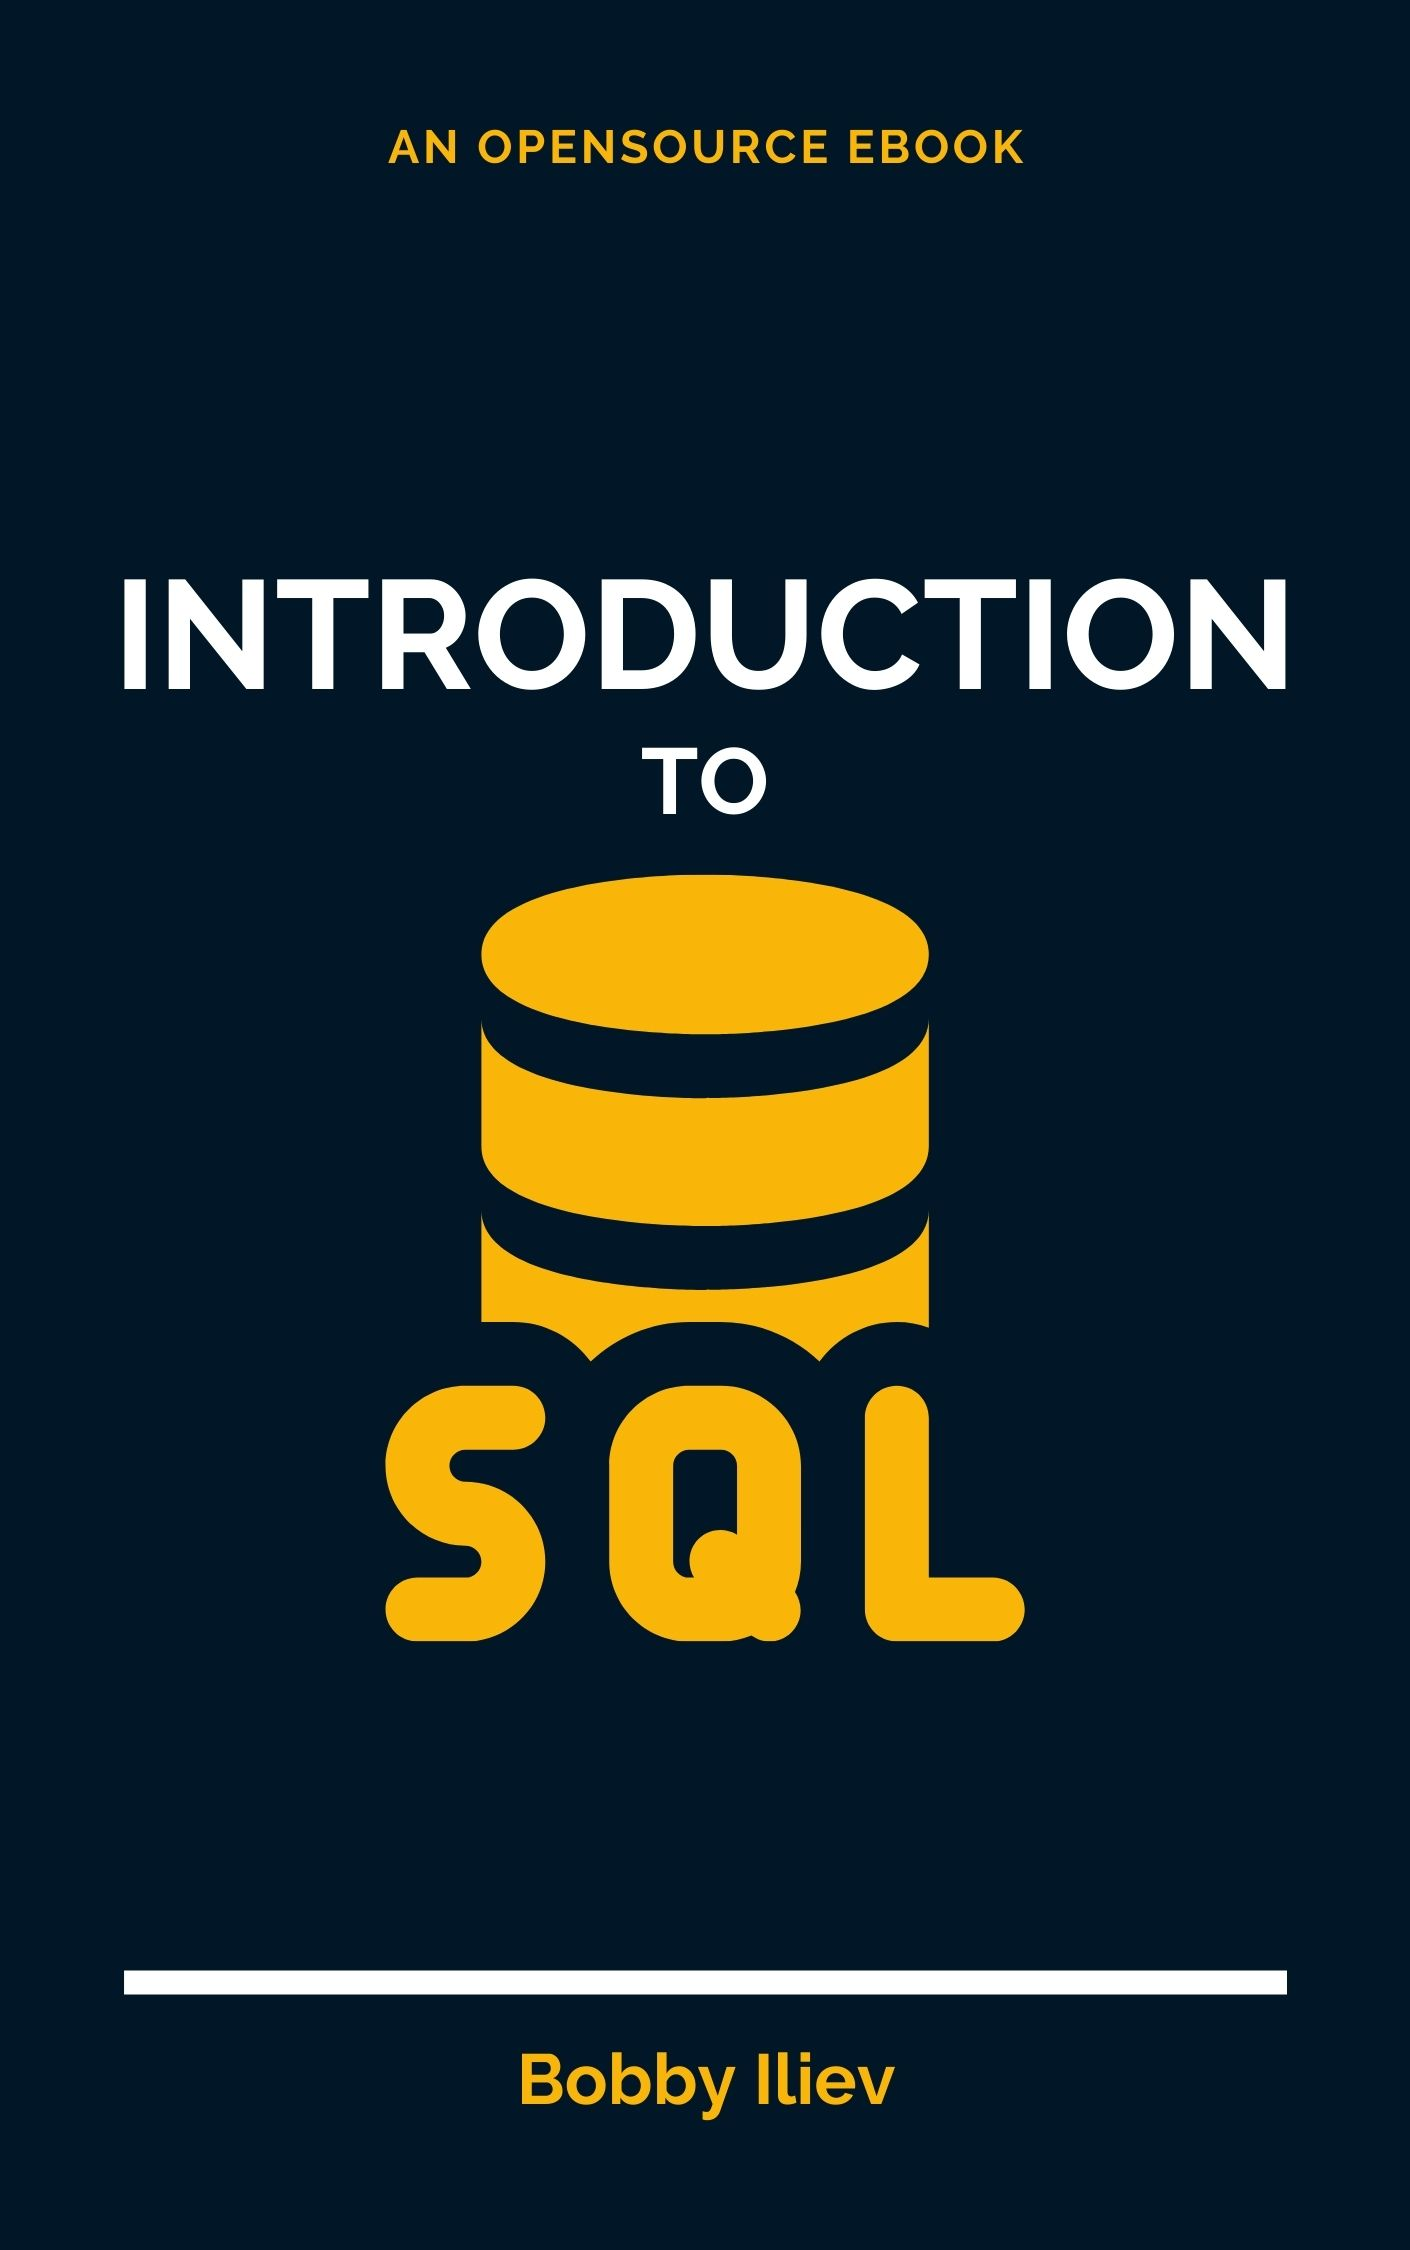
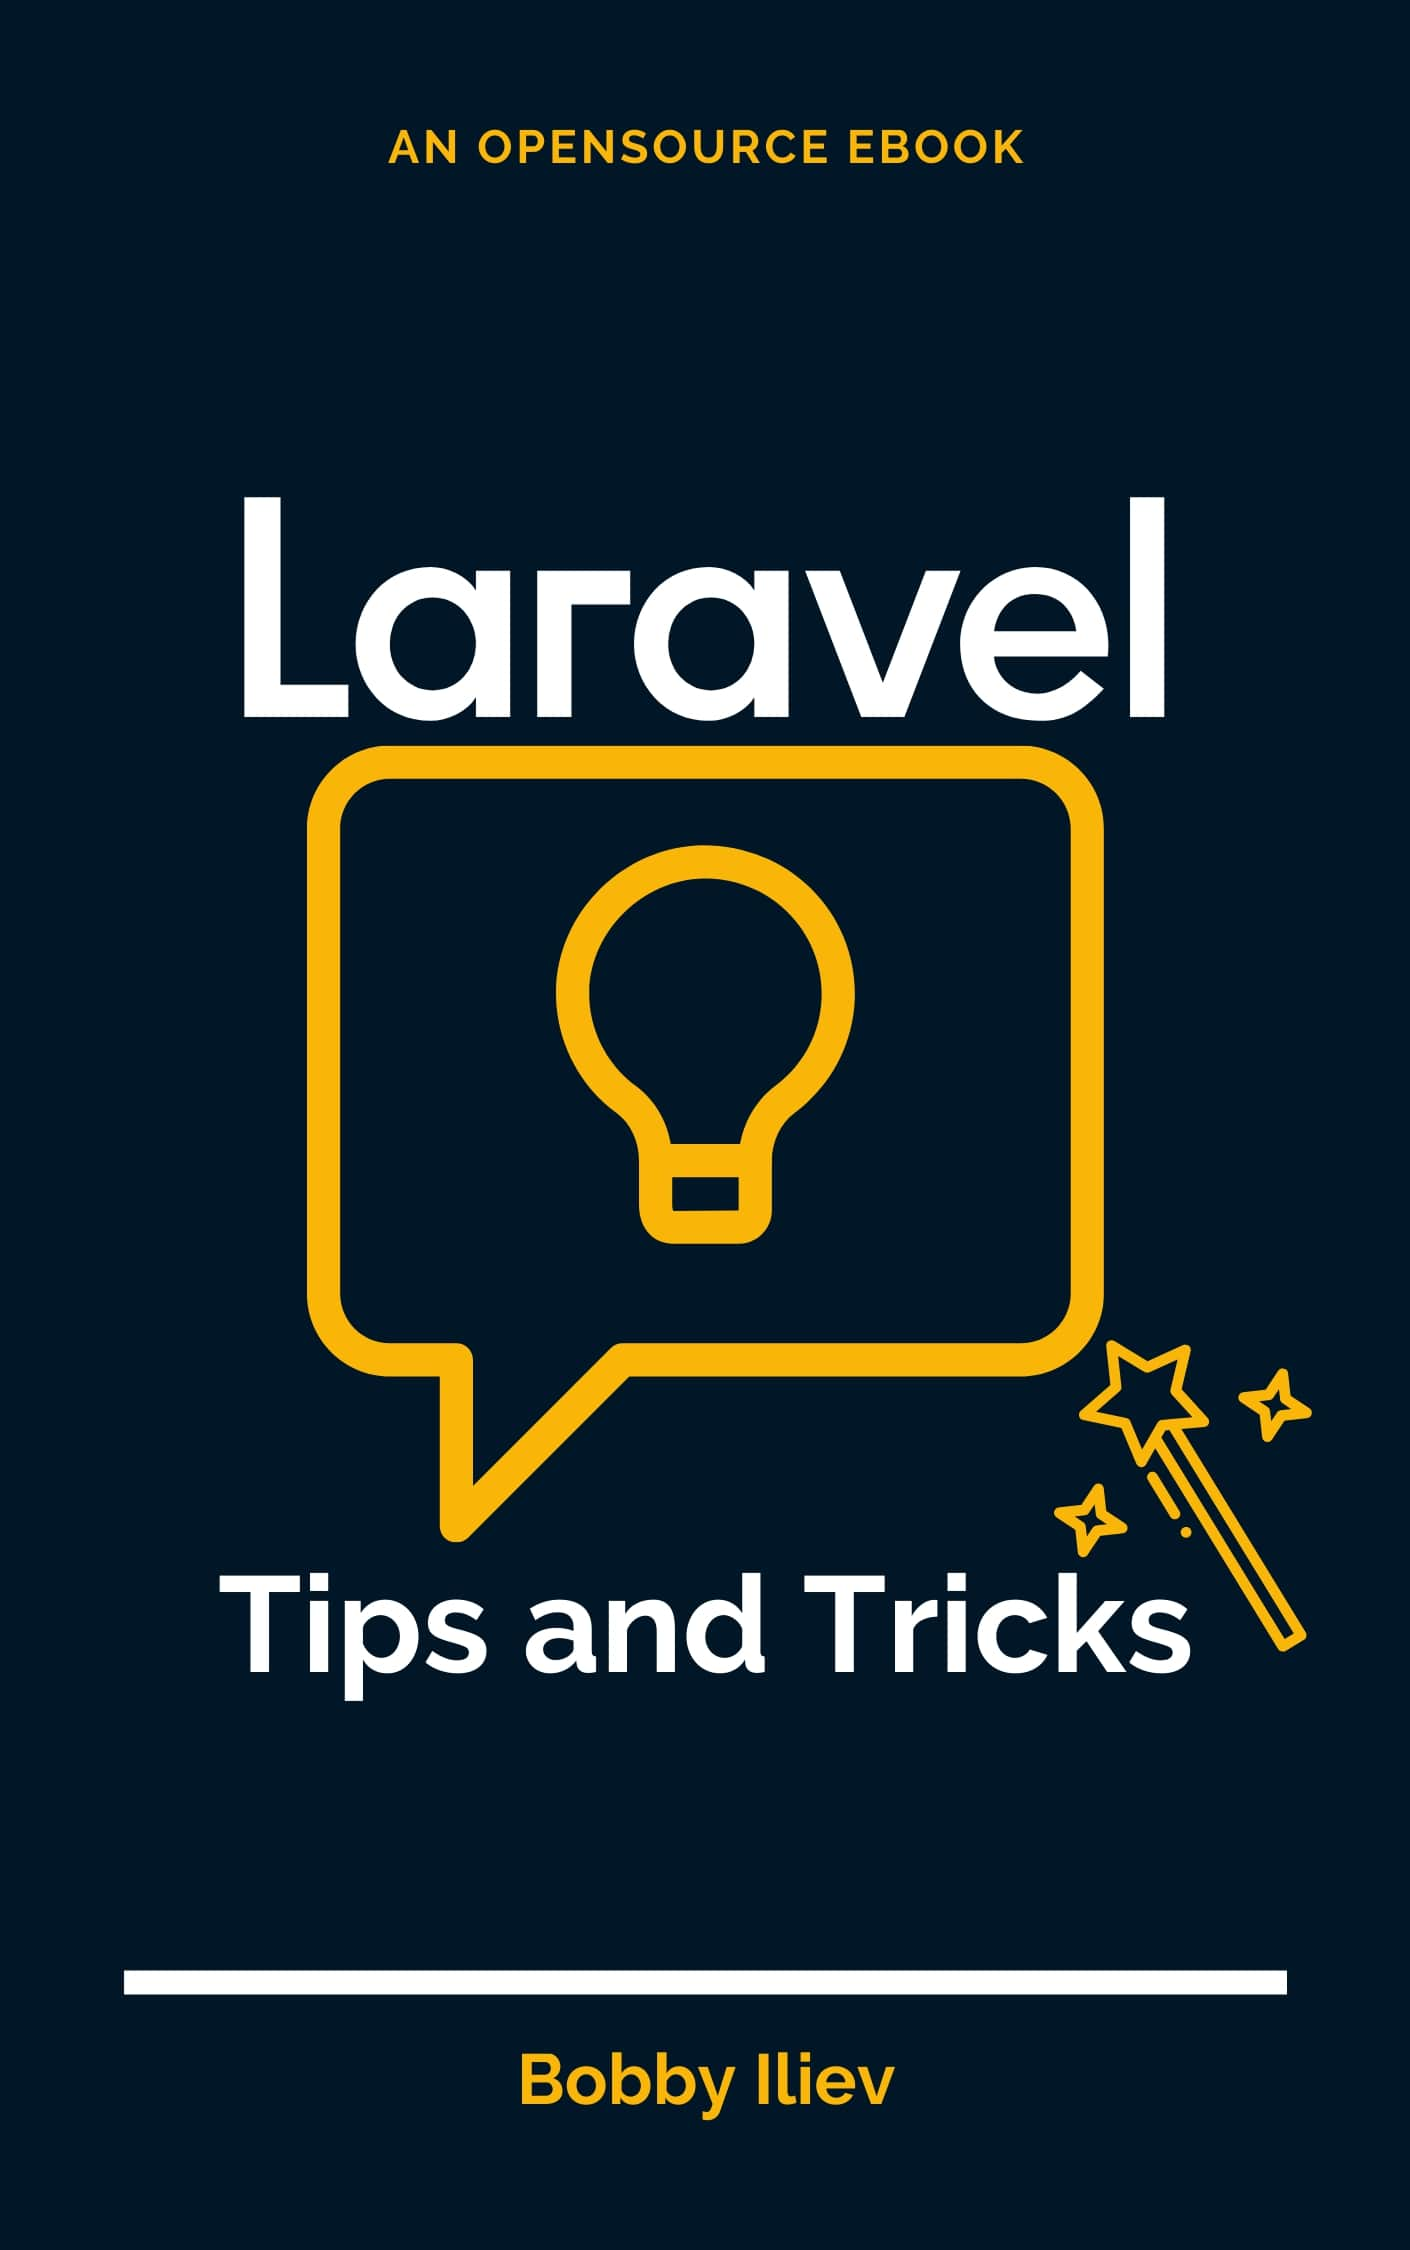
Add sample book cover

Changed region(s): [[0.0624, 0.2178, 0.9362, 0.7467]]

diff --git a/ebook/en/ibis.php b/ebook/en/ibis.php
@@ -4,7 +4,7 @@ return [
     /**
      * The book title.
      */
-    'title' => 'Introduction to SQL',
+    'title' => 'Laravel Tips and Tricks',
 
     /**
      * The author name.
@@ -29,6 +29,6 @@ return [
     /**
      * A notice printed at the final page of a generated sample.
      */
-    'sample_notice' => 'This is a sample from "Introduction to SQL" by Bobby Iliev. <br>
+    'sample_notice' => 'This is a sample from "Laravel Tips and Tricks" by Bobby Iliev. <br>
                         For more information, <a href="https://devdojo.com/">Click here</a>.',
 ];

diff --git a/README.md b/README.md
@@ -1,4 +1,4 @@
-<p align="center"><img src="https://imgur.com/73KwDAp.png" height="450" width="auto"></p>
+<p align="center"><img src="https://imgur.com/0YRkNDh.png" height="450" width="auto"></p>
 
 <div align="center">
     <p>
@@ -118,6 +118,8 @@ Ibis is a PHP tool that helps you write eBooks in markdown.
 The cover for this ebook was created with [Canva.com](https://www.canva.com/join/determined-cork-learn).
 
 If you ever need to create a graphic, poster, invitation, logo, presentation – or anything that looks good — give Canva a go.
+
+<div>Icons made by <a href="https://www.flaticon.com/authors/pixel-perfect" title="Pixel perfect">Pixel perfect</a> from <a href="https://www.flaticon.com/" title="Flaticon">www.flaticon.com</a></div>
 
 ## 🔗 Links
 
